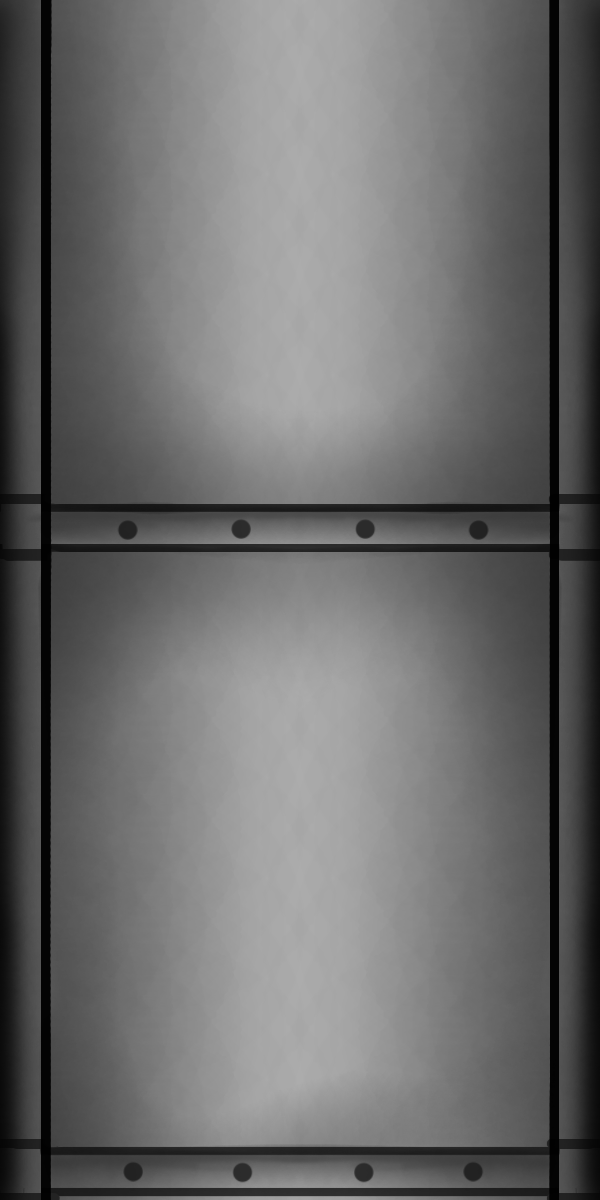
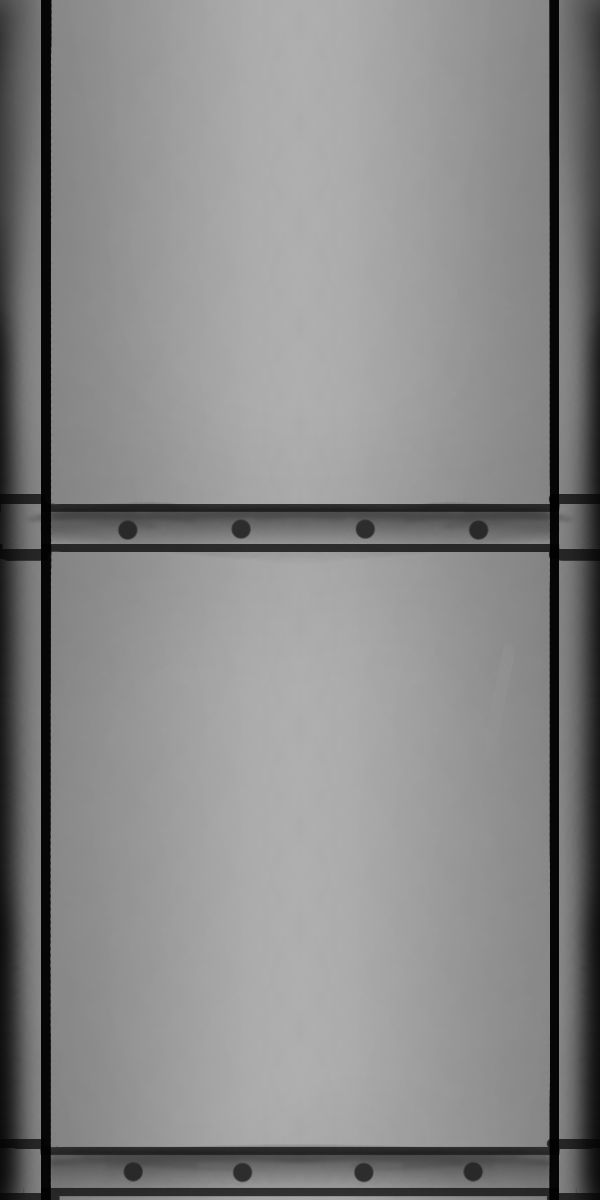
Clean up - Final

diff --git a/assets/css/styles.css b/assets/css/styles.css
@@ -27,15 +27,19 @@ table, th, td {
     background-image: url(../images/rain_bg.png);
     background-repeat: repeat;
     background-size: 200px;
-    animation: moveBg 5s linear infinite;
+    /* animation: moveBg 5s linear infinite; */
+}
+
+.list-group{
+    width: 100%;
 }
 
 
-@keyframes moveBg{
+/* @keyframes moveBg{
     from {background-position: top;}
     to {background-position: bottom;}
     
-}
+} */
 
 #gameCanvas {
     display: block;
@@ -51,7 +55,7 @@ form {
     margin:auto;
     margin-top: 50px;;
     padding: 5px;
-    width: 600px;
+    width: 700px;
     height: 100%;
 }
 

diff --git a/auth/register.php b/auth/register.php
@@ -3,12 +3,13 @@
     require_once __DIR__ . '/../config/db.php';
 
     $errors = [];
+    $success = "";
 
     if ($_SERVER['REQUEST_METHOD'] == 'POST'){
         $username = $_POST['username'];
         $password = $_POST['password'];
         $confirm_pass = $_POST['confirm_pass'];
-        $is_admin = isset($_POST['admin_access']);
+        $is_admin = 0;
 
 # USERNAME FILTERS ====================================================
         if (empty($username)){
@@ -45,10 +46,13 @@
             $errors[] = "Password must contain lower, upper case and special characters";
         }
 
+        if ($password == 'AdminAccess@1234'){
+            $isAdmin = 1;
+        } 
         $passwordHash = password_hash($password, PASSWORD_BCRYPT);
 # SUCCESS ====================================================
         if (empty($errors)){
-            $adminValue = $is_admin ? 1 : 0;
+            $adminValue = $isAdmin;
             $insertResult = pg_query_params($conn, 'INSERT INTO user_details (user_name, password, admin) VALUES ($1, $2, $3)', [$username, $passwordHash, $adminValue]);
         }
     }
@@ -87,17 +91,17 @@
                     <input type="password" class="form-control" placeholder="Confirm password" name="confirm_pass">
                 </label>
             </div>
-            <br>
-            <div class="form-group form-check">
+            <!-- <div class="form-group form-check">
                 <label for="admin">Are you an admin? 
                 <input type="checkbox" class="form-check-input" name="admin_access" value="<?php echo isset($_POST['admin_access']) ? 'checked' : ''; ?>">
             </label>
-            </div>
+            </div> -->
 <!-- DISPLAYING ERRORS ==================================================== -->
             <?php 
                 foreach($errors as $error){
-                    echo $error . "<br>";
+                    echo "<p style='color: #e0682b;'>" . $error;
                 }
+                    echo "<p style='color: #9cbc6dff;'>" . $success;
             ?>
             <br><br>
             <button type="submit" class="btn btn-secondary">Register</button> 

diff --git a/admin/admin_view.php b/admin/admin_view.php
@@ -17,7 +17,7 @@
     }
 
     $query = 'SELECT s.user_name, s.high_score, s.height_reached, u.status
-             FROM endless_scores as s
+             FROM scores as s
              LEFT JOIN user_details as u ON s.user_name = u.user_name
              ORDER BY s.high_score DESC
              ';
@@ -41,7 +41,7 @@
 
     <div id="container">
         <div id="banner">
-            <img id="logo_img" src="../assets/images/DDD_logo.png" alt="Damang, Don't Drown! Logo">
+            <img id="logo_img" src="../assets/images/DD_logo.png" alt="Damang, Don't Drown! Logo">
         </div>
         <p><b>Welcome to Admin Access!</b><br></p>
        
@@ -51,6 +51,7 @@
                     <th>User</th>
                     <th>Score</th>
                     <th>Height</th>
+                    <th>Status</th>
                     <th></th>
                 </tr>
 
@@ -66,6 +67,7 @@
                             <td><?php echo $uname ?></td>
                             <td><?php echo $u['high_score'] ?> </td>
                             <td><?php echo $u['height_reached'] ?> </td>
+                            <td><?php echo $u['status'] ?> </td>
                             <td> <button class="btn-outline theme-secondary" type="submit" name="change_status" value="<?php echo $uname ?>" class="btn <?php echo $btn_class; ?>"><?php echo $btn_label ?></button> </td>
                         </tr>
                     <?php endforeach; ?>                    
